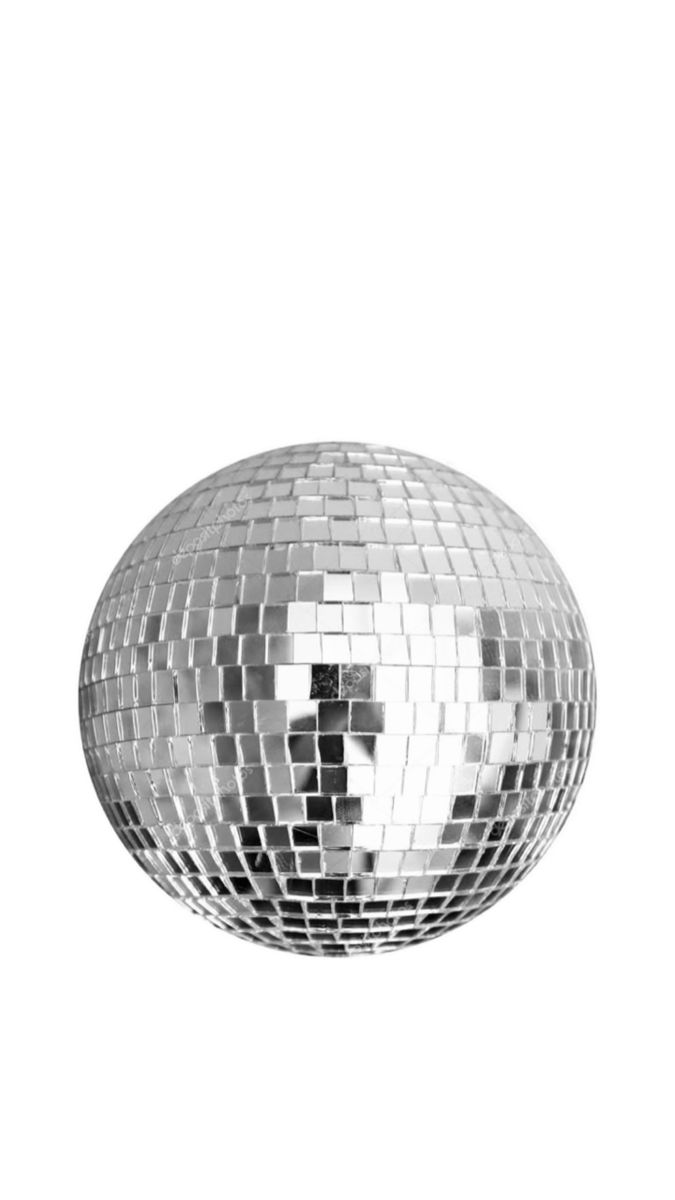
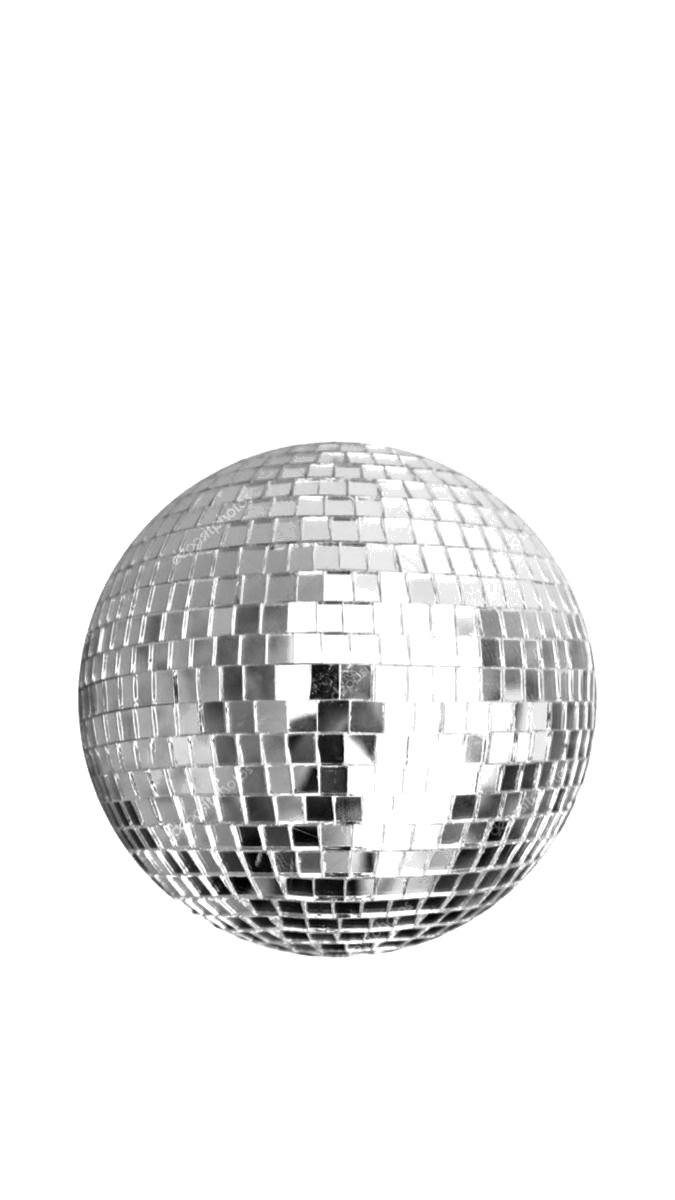
Remove white background from disco ball image
Used PIL to make white/near-white pixels transparent in disco-ball.png.
Removed mix-blend-mode hack from DiscoBackground — no longer needed now
that the PNG has a proper transparent background. Re-added drop-shadow
filter on the img (safe now without blend-mode conflict).

diff --git a/components/DiscoBackground.tsx b/components/DiscoBackground.tsx
@@ -97,30 +97,22 @@ function DiscoBall({ left, top, size, floatDelay, spinDuration, sparkleOffset }:
         )
       })}
 
-      {/* Real disco ball image — wrap in a div so filter and mix-blend-mode don't conflict */}
-      <div
+      {/* Real disco ball image — background removed via Python/PIL, so no blend tricks needed */}
+      {/* eslint-disable-next-line @next/next/no-img-element */}
+      <img
+        src="/disco-ball.png"
+        alt=""
         style={{
           width: size,
           height: size,
+          objectFit: 'contain',
+          display: 'block',
           position: 'relative',
           zIndex: 1,
           animation: `discospin ${spinDuration} linear infinite`,
-          filter: 'drop-shadow(0 8px 32px rgba(255,45,120,0.4))',
+          filter: 'drop-shadow(0 8px 32px rgba(255,45,120,0.35))',
         }}
-      >
-        {/* eslint-disable-next-line @next/next/no-img-element */}
-        <img
-          src="/disco-ball.png"
-          alt=""
-          style={{
-            width: '100%',
-            height: '100%',
-            objectFit: 'contain',
-            display: 'block',
-            mixBlendMode: 'multiply',
-          }}
-        />
-      </div>
+      />
     </div>
   )
 }